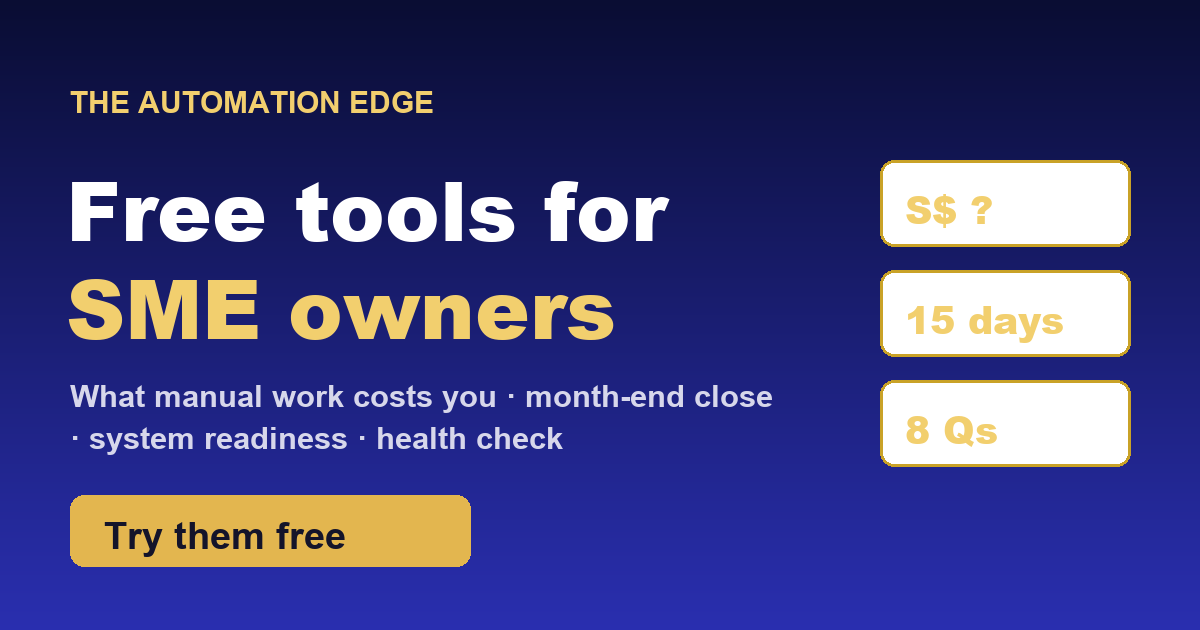
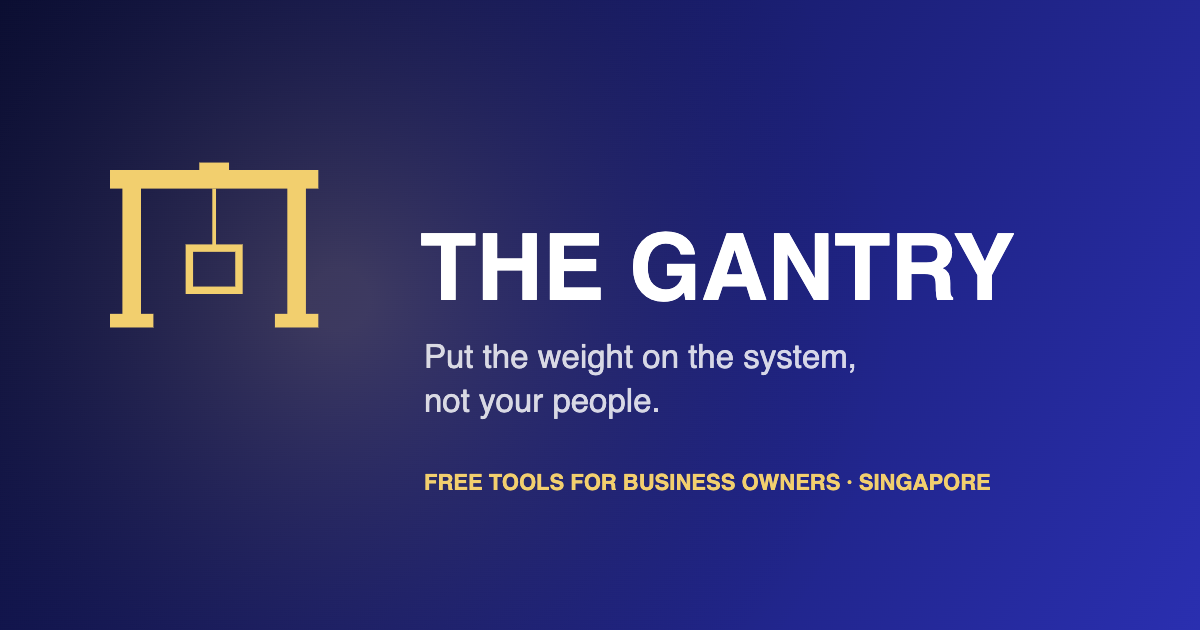
Add files via upload

diff --git a/index.html b/index.html
@@ -3,9 +3,9 @@
 <head>
 <meta charset="UTF-8">
 <meta name="viewport" content="width=device-width, initial-scale=1.0">
-<title>Free Tools for Business Owners — The Automation Edge</title>
+<title>Free Tools for Business Owners — The Gantry</title>
 <meta name="description" content="Free calculators and self-tests for business owners: what manual work costs you, whether a system pays for itself, how much a slow month-end burns, and whether you are ready to buy.">
-<meta property="og:title" content="Free Tools for Business Owners — The Automation Edge">
+<meta property="og:title" content="Free Tools for Business Owners — The Gantry">
 <meta property="og:description" content="Calculators and self-tests for business owners. No signup. Find out what your manual work actually costs.">
 <meta property="og:type" content="website">
 <meta property="og:image" content="https://sayedomnisoft.github.io/tools/og-image.png">
@@ -18,7 +18,7 @@
 </head>
 <body>
 <div class="card">
-  <div class="brand"><a href="https://sayedr.substack.com">THE AUTOMATION EDGE</a></div>
+  <div class="brand"><a href="https://sayedr.substack.com">THE GANTRY</a></div>
   <h1>Free tools for business owners</h1>
   <p class="sub">I built these after years of sitting with business owners and hearing the same problems. Each one takes a couple of minutes and gives you a real number about your own business. Free, and you don't need to give me your email to see the answer.</p>
 
@@ -82,7 +82,8 @@
   </ul>
 
   <div class="footer">
-    Built by <a href="https://sayedr.substack.com">Sayed Rashid</a> · The Automation Edge<br>
+    <strong>The Gantry</strong> — put the weight on the system, not your people.<br>
+    Built by <a href="https://sayedr.substack.com">Sayed Rashid</a><br>
     Weekly playbooks for running an SME without heroics.<br>
     <a href="https://sayedr.substack.com/subscribe?utm_source=tools-hub">Subscribe free →</a>
   </div>

diff --git a/review.html b/review.html
@@ -3,7 +3,7 @@
 <head>
 <meta charset="UTF-8">
 <meta name="viewport" content="width=device-width, initial-scale=1.0">
-<title>The 20-Minute Systems Review — The Automation Edge</title>
+<title>The 20-Minute Systems Review — The Gantry</title>
 <meta name="description" content="Twenty minutes on video. Bring one process that annoys you. You leave knowing where your hours go and what to fix first — or that it isn't worth fixing.">
 <meta property="og:title" content="The 20-Minute Systems Review">
 <meta property="og:description" content="No slides, no pitch. Bring one process that annoys you and we'll find the first fix worth making.">
@@ -29,7 +29,7 @@
 </head>
 <body>
 <div class="card">
-  <div class="brand"><a href="index.html">← THE AUTOMATION EDGE · TOOLS</a></div>
+  <div class="brand"><a href="index.html">← THE GANTRY · TOOLS</a></div>
   <div class="pill">FREE · 20 MINUTES · VIDEO CALL</div>
   <h1>The 20-minute systems review</h1>
   <p class="sub">You've seen the number. This is the conversation that turns it into a decision — which single process to fix first, and whether it's even worth fixing yet.</p>
@@ -71,7 +71,7 @@
 
   <div class="sig">
     <img src="sayed.jpg" alt="Sayed Rashid" width="52" height="52" loading="lazy">
-    <div><strong>Sayed Rashid</strong>ERP &amp; business systems consultant, Singapore SMEs. I write <a href="https://sayedr.substack.com" style="color:var(--gold-light);text-decoration:none;">The Automation Edge</a>.</div>
+    <div><strong>Sayed Rashid</strong>ERP &amp; business systems consultant, Singapore SMEs. I write <a href="https://sayedr.substack.com" style="color:var(--gold-light);text-decoration:none;">The Gantry</a>.</div>
   </div>
 
   <div class="footer">

diff --git a/erp-roi.html b/erp-roi.html
@@ -3,7 +3,7 @@
 <head>
 <meta charset="UTF-8">
 <meta name="viewport" content="width=device-width, initial-scale=1.0">
-<title>ERP &amp; Automation ROI Calculator — The Automation Edge</title>
+<title>ERP &amp; Automation ROI Calculator — The Gantry</title>
 <meta name="description" content="An ERP is a 10 to 15 year asset, not a yearly expense. See how many years until it pays for itself, what it is worth at year 7, 10 and 15, and how your accountant will treat it.">
 <meta property="og:title" content="ERP &amp; Automation ROI Calculator">
 <meta property="og:description" content="Payback, the 15-year view, and how your accountant treats it. Free, no signup.">
@@ -34,7 +34,7 @@
 </head>
 <body>
 <div class="card">
-  <div class="brand"><a href="index.html">← THE AUTOMATION EDGE · TOOLS</a></div>
+  <div class="brand"><a href="index.html">← THE GANTRY · TOOLS</a></div>
 
   <!-- FORM -->
   <div id="form">
@@ -178,7 +178,7 @@
   </div>
 
   <div class="footer" id="baseFooter">
-    Free tool by <a href="https://sayedr.substack.com">Sayed Rashid</a> · The Automation Edge<br>
+    Free tool by <a href="https://sayedr.substack.com">Sayed Rashid</a> · The Gantry<br>
     <a href="https://sayedr.substack.com/subscribe?utm_source=erp-roi">Get the weekly playbooks</a>
   </div>
 </div>

diff --git a/month-end-close.html b/month-end-close.html
@@ -3,7 +3,7 @@
 <head>
 <meta charset="UTF-8">
 <meta name="viewport" content="width=device-width, initial-scale=1.0">
-<title>Month-End Close Cost Calculator — The Automation Edge</title>
+<title>Month-End Close Cost Calculator — The Gantry</title>
 <meta name="description" content="What does your slow month-end close cost in salary each year — and what would you save closing in three days? Free calculator for SME owners.">
 <meta property="og:title" content="Month-End Close Cost Calculator">
 <meta property="og:description" content="If your accounts close 21 days after month end, you are steering by looking three weeks into the past. Here is the price.">
@@ -14,7 +14,7 @@
 </head>
 <body>
 <div class="card">
-  <div class="brand"><a href="index.html">← THE AUTOMATION EDGE · TOOLS</a></div>
+  <div class="brand"><a href="index.html">← THE GANTRY · TOOLS</a></div>
 
   <div id="form">
     <h1>Month-End Close Cost</h1>
@@ -83,7 +83,7 @@
   </div>
 
   <div class="footer" id="baseFooter">
-    <a href="index.html">All free tools</a> · <a href="https://sayedr.substack.com">The Automation Edge</a>
+    <a href="index.html">All free tools</a> · <a href="https://sayedr.substack.com">The Gantry</a>
   </div>
 </div>
 

diff --git a/erp-readiness.html b/erp-readiness.html
@@ -3,7 +3,7 @@
 <head>
 <meta charset="UTF-8">
 <meta name="viewport" content="width=device-width, initial-scale=1.0">
-<title>ERP Readiness Scorecard — The Automation Edge</title>
+<title>ERP Readiness Scorecard — The Gantry</title>
 <meta name="description" content="Before you buy any system: are your data, processes and people actually ready? Eight questions, honest verdict. Free for SME owners.">
 <meta property="og:title" content="ERP Readiness Scorecard">
 <meta property="og:description" content="Most failed system projects were doomed before the software was chosen. Eight questions to find out where you stand.">
@@ -30,7 +30,7 @@
 </head>
 <body>
 <div class="card">
-  <div class="brand"><a href="index.html">← THE AUTOMATION EDGE · TOOLS</a></div>
+  <div class="brand"><a href="index.html">← THE GANTRY · TOOLS</a></div>
 
   <div id="intro">
     <h1>ERP Readiness Scorecard</h1>
@@ -74,7 +74,7 @@
   </div>
 
   <div class="footer" id="baseFooter">
-    <a href="index.html">All free tools</a> · <a href="https://sayedr.substack.com">The Automation Edge</a>
+    <a href="index.html">All free tools</a> · <a href="https://sayedr.substack.com">The Gantry</a>
   </div>
 </div>
 

diff --git a/cost-of-manual-work.html b/cost-of-manual-work.html
@@ -3,7 +3,7 @@
 <head>
 <meta charset="UTF-8">
 <meta name="viewport" content="width=device-width, initial-scale=1.0">
-<title>Cost of Manual Work Calculator — The Automation Edge</title>
+<title>Cost of Manual Work Calculator — The Gantry</title>
 <meta name="description" content="Put a dollar figure on the re-typing, checking and chasing your team does every week. Free calculator for SME owners.">
 <meta property="og:title" content="Cost of Manual Work Calculator">
 <meta property="og:description" content="What is manual work actually costing your business each year? Three inputs, one number.">
@@ -14,7 +14,7 @@
 </head>
 <body>
 <div class="card">
-  <div class="brand"><a href="index.html">← THE AUTOMATION EDGE · TOOLS</a></div>
+  <div class="brand"><a href="index.html">← THE GANTRY · TOOLS</a></div>
 
   <div id="form">
     <h1>Cost of Manual Work</h1>
@@ -73,7 +73,7 @@
   </div>
 
   <div class="footer" id="baseFooter">
-    <a href="index.html">All free tools</a> · <a href="https://sayedr.substack.com">The Automation Edge</a>
+    <a href="index.html">All free tools</a> · <a href="https://sayedr.substack.com">The Gantry</a>
   </div>
 </div>
 

diff --git a/invoicenow-deadline.html b/invoicenow-deadline.html
@@ -35,7 +35,7 @@
 </head>
 <body>
 <div class="card">
-  <div class="brand"><a href="index.html">← THE AUTOMATION EDGE · TOOLS</a></div>
+  <div class="brand"><a href="index.html">← THE GANTRY · TOOLS</a></div>
 
   <!-- FORM -->
   <div id="form">
@@ -118,7 +118,7 @@
   </div>
 
   <div class="footer" id="baseFooter">
-    Free tool by <a href="https://sayedr.substack.com">Sayed Rashid</a> · The Automation Edge<br>
+    Free tool by <a href="https://sayedr.substack.com">Sayed Rashid</a> · The Gantry<br>
     <a href="https://sayedr.substack.com/subscribe?utm_source=invoicenow">Get the weekly playbooks</a>
   </div>
 </div>
